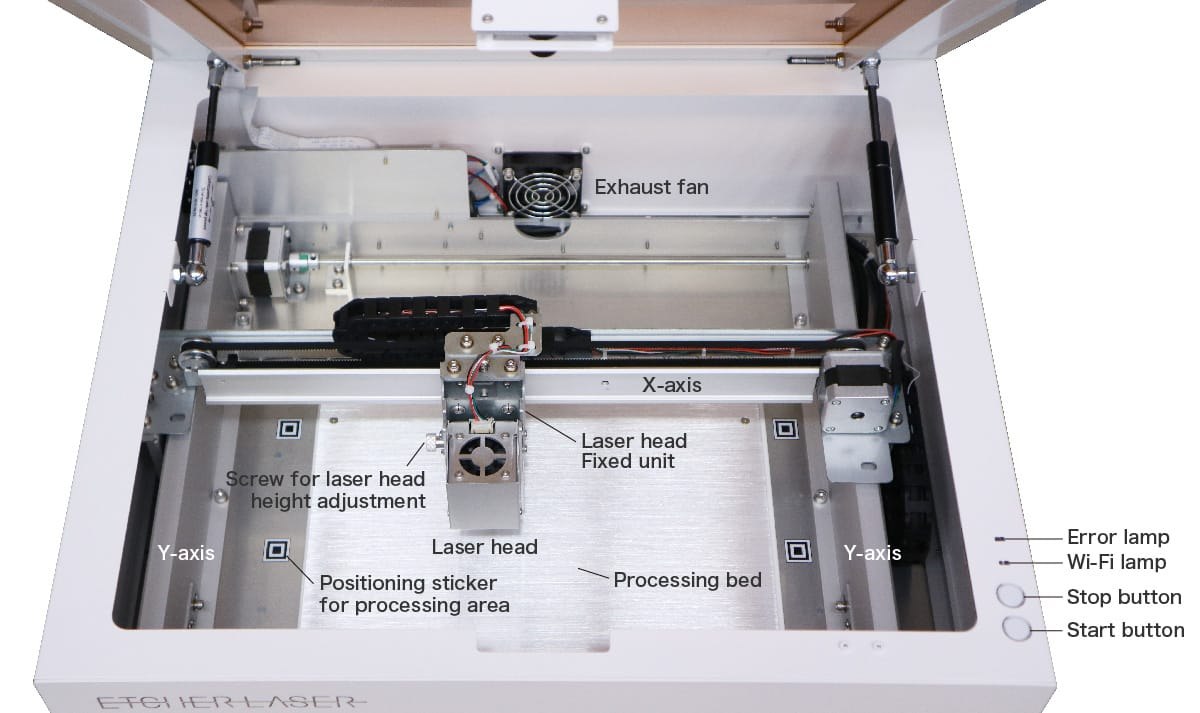
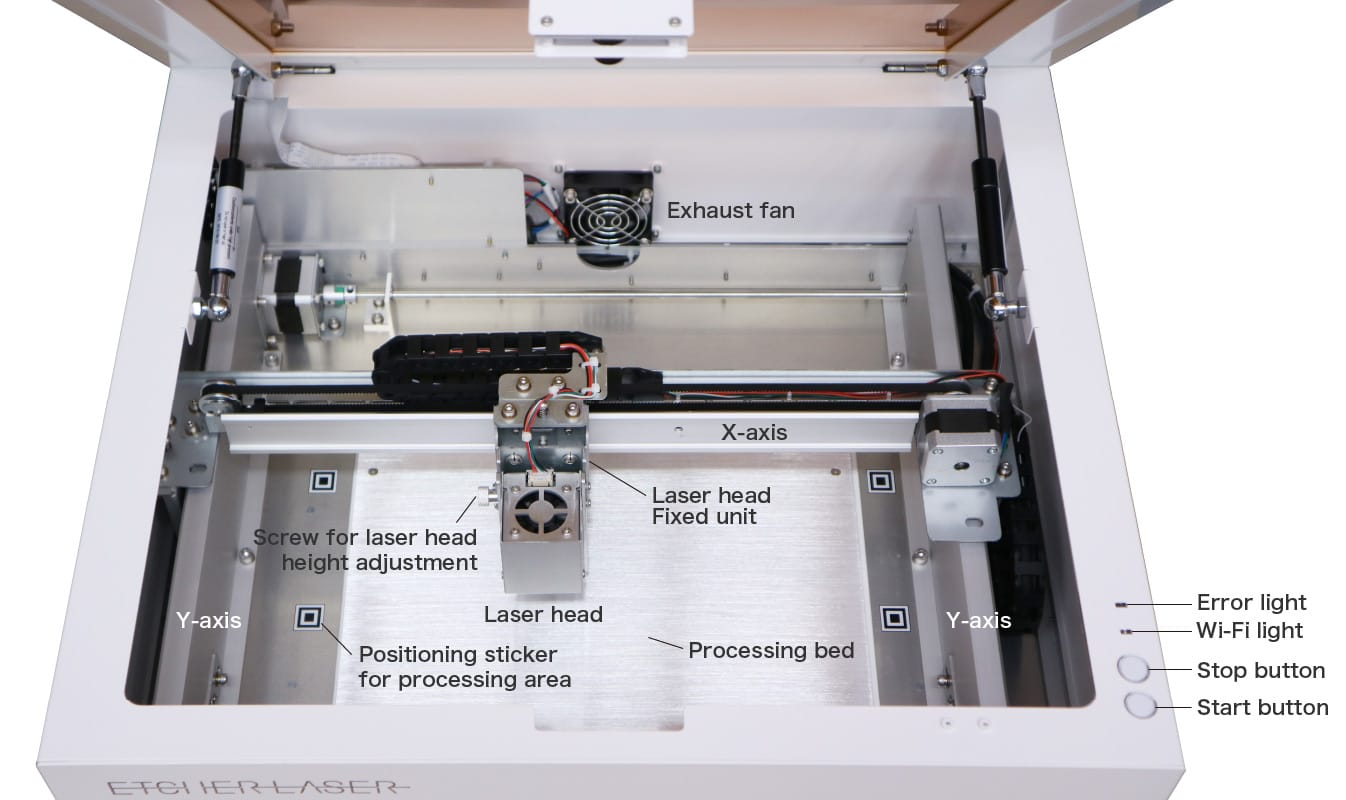
light button 説明追加

diff --git a/EN/Etcher_Laser/manual/hardware_setup.md b/EN/Etcher_Laser/manual/hardware_setup.md
@@ -3,6 +3,14 @@ Let’s start setting up your Etcher Laser. Please refer to the pictures below f
 
 <img src="./images/parts_2.jpg">
 
+**Error light**: Lights up in red when an error occurs in the machine body.
+
+**Wi-Fi light**: Lights when Wi-Fi is connected to EtcherLaser in STA mode. * Please refer to <a href="https://manual.smartdiys.cc/el-mobile-connection-to-machine/">this page</a> for Connect to EtcherLaser via Wi-Fi router.
+
+**Stop button**: Used to stop the operation of the main unit. Lights red when the button operation is valid. Press and hold this button to stop the processing machine. * Operation can also be stopped from software.
+
+**Start button**: Used when operating from a smartphone application. Lights up green when the button is enabled. Lights when processing data is sent to the processing machine. Pressing and holding this button starts processing.
+
 ## Unpacking and setting up the device
 There will be one box for the main device and 1 - 3 boxes for accessories (optional).
 
